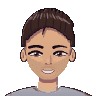
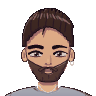
feat(portraits): likeness pass on the dialogue portraits
Features re-chosen by eye per person (skin, hair style and colour, brows, beards, glasses, earrings, accessories). New hair style tousle, side parts, ombre ends, aviator glasses and other optional FACES keys. Nothing is traced or sampled from a photo.

Changed region(s): [[0.1875, 0.125, 0.8125, 0.9688], [0.625, 0.0938, 0.6562, 0.125]]

diff --git a/scripts/art/portraits.py b/scripts/art/portraits.py
@@ -24,65 +24,67 @@ SKIN = {"light": (250, 220, 196), "medium": (238, 198, 164), "tan": (226, 176, 1
 HAIR = {
     "black": (44, 34, 48), "darkbrown": (64, 42, 34), "brown": (96, 62, 42), "chestnut": (146, 96, 60),
     "auburn": (170, 72, 58), "greybrown": (132, 122, 112), "copper": (200, 108, 56), "lightbrown": (140, 100, 66),
-    "ash": (156, 146, 136), "salt": (104, 98, 98),
+    "ash": (156, 146, 136), "salt": (104, 98, 98), "mahogany": (92, 40, 42), "wavybrown": (84, 52, 38),
+    "inkbrown": (52, 40, 40), "pinbrown": (122, 104, 90), "silverbrown": (148, 132, 120), "ginger": (208, 118, 62),
 }
-EYES = {"brown": (92, 56, 36), "darkbrown": (60, 38, 30), "hazel": (120, 96, 52), "green": (84, 118, 70)}
+EYES = {"brown": (92, 56, 36), "darkbrown": (60, 38, 30), "hazel": (120, 96, 52), "green": (84, 118, 70),
+        "hazelgreen": (112, 116, 66)}
 
 # Per-person features. fw = half face width, chin = chin y, cw = chin half width, brow = stroke width,
 # eye = (width, height), mouth = grin | smile | soft | neutral, squint = smiling lower lids.
 FACES = {
-    "ric": dict(skin="tan", hair="darkbrown", eyes="darkbrown", style="bun", fw=19.5, chin=74, cw=3.5, brow=2.2,
-                eye=(10, 5.2), mouth="soft", beard="full", acc=["sunglasses"], male=True,
+    "ric": dict(skin="tan", hair="darkbrown", eyes="darkbrown", style="bun", fw=18.8, chin=75, cw=3.5, brow=2.4,
+                eye=(10, 5.2), mouth="soft", beard="full", acc=["sunglasses"], male=True, messy=True,
                 top=("shirt", (128, 36, 52), "hawaii")),
-    "lara": dict(skin="light", hair="chestnut", eyes="brown", style="longwavy", fw=19.5, chin=71, cw=3.0, brow=1.3,
-                 eye=(10, 6.6), mouth="grin", squint=True, blush=True, acc=["necklace"],
-                 top=("straps", (246, 243, 236), "buttons")),
-    "liscio": dict(skin="tan", hair="darkbrown", eyes="brown", style="swept", fw=20, chin=73, cw=3.5, brow=1.9,
-                   eye=(10, 5.4), mouth="grin", squint=True, beard="stubble", acc=["chain"], male=True,
+    "lara": dict(skin="tan", hair="wavybrown", eyes="darkbrown", style="longwavy", fw=19.5, chin=72, cw=3.0, brow=2.6,
+                 eye=(10, 6.0), mouth="smile", lip=(196, 110, 108), acc=["beadearrings", "mole"],
+                 ombre=(178, 118, 72), top=("straps", (246, 243, 236), "buttons")),
+    "liscio": dict(skin="tan", hair="darkbrown", eyes="brown", style="swept", fw=19.2, chin=75, cw=3.5, brow=2.5,
+                   eye=(10, 5.0), mouth="smile", beard="short", acc=["chain", "hoop"], male=True,
                    top=("tee", (168, 172, 180), None)),
-    "ros": dict(skin="light", hair="auburn", eyes="hazel", style="bob", fw=19.5, chin=71, cw=3.0, brow=1.3,
-                eye=(10.5, 6.8), mouth="neutral", blush=True, acc=["earrings"],
+    "ros": dict(skin="light", hair="auburn", eyes="hazel", style="bob", fw=19.5, chin=71, cw=3.0, brow=1.5,
+                eye=(10.5, 6.8), mouth="soft", blush=True, acc=["bighoops", "goldchain"],
                 top=("straps", (52, 44, 56), "ditsy")),
-    "lollino": dict(skin="tan", hair="brown", eyes="brown", style="curls", fw=20.5, chin=73, cw=4.0, brow=2.0,
-                    eye=(10, 5.4), mouth="grin", squint=True, beard="short", acc=["shades-on-head"], male=True,
-                    top=("tee", (40, 48, 82), None)),
+    "lollino": dict(skin="medium", hair="darkbrown", eyes="hazelgreen", style="tousle", fw=19.8, chin=74, cw=4.0,
+                    brow=2.5, eye=(10, 5.6), mouth="grin", squint=True, beard="short", acc=["shades-on-head"],
+                    male=True, vol=1.15, fringe=True, top=("tee", (40, 48, 82), None)),
     "fede": dict(skin="medium", hair="darkbrown", eyes="darkbrown", style="longstraight", fw=19.5, chin=71, cw=3.0,
                  brow=1.4, eye=(10, 6.4), mouth="grin", squint=True, blush=True, acc=[],
                  top=("straps", (226, 196, 70), "ditsy-light")),
-    "giuggiu": dict(skin="medium", hair="black", eyes="darkbrown", style="quiff", fw=21, chin=74, cw=5.0, brow=2.1,
-                    eye=(9.5, 5.2), mouth="smile", beard="short", acc=[], male=True,
+    "giuggiu": dict(skin="tan", hair="black", eyes="darkbrown", style="tousle", fw=20.5, chin=75, cw=5.0, brow=2.6,
+                    eye=(9.5, 5.4), mouth="smile", beard="short", acc=[], male=True, vol=0.6, bumps=True, drop=8,
                     top=("tee", (244, 244, 240), "logo")),
-    "giusy": dict(skin="olive", hair="black", eyes="darkbrown", style="longblack", fw=19, chin=71, cw=2.6, brow=1.6,
-                  eye=(10.5, 6.6), mouth="soft", acc=["earrings"], lashes=True,
+    "giusy": dict(skin="tan", hair="mahogany", eyes="darkbrown", style="longstraight", fw=19, chin=71, cw=2.6, brow=1.6,
+                  eye=(10.5, 6.4), mouth="grin", squint=True, acc=["chain"], lashes=True, part=41,
                   top=("vneck", (40, 30, 44), "floral")),
-    "pinolo": dict(skin="light", hair="greybrown", eyes="brown", style="sidepart", fw=20.5, chin=74, cw=4.5, brow=1.8,
-                   eye=(9, 5.0), mouth="smile", acc=["glasses", "lines"], male=True,
-                   top=("collar", (176, 204, 232), "stripes")),
+    "pinolo": dict(skin="light", hair="pinbrown", eyes="brown", style="sidepart", fw=21.5, chin=74, cw=5.0, brow=2.0,
+                   eye=(9, 5.0), mouth="smile", acc=["glasses", "lines"], male=True, gframe=(38, 30, 32), gthick=1.6,
+                   browcol=(86, 66, 56), top=("collar", (176, 204, 232), "stripes")),
     "sconosciuta": dict(skin="light", hair="chestnut", eyes="green", style="ponytail", fw=19, chin=71, cw=3.0,
                         brow=1.3, eye=(10.5, 6.8), mouth="smile", blush=True, acc=[],
                         top=("straps", (150, 214, 184), None)),
     # extras (comparse), traits from the photos the owner added
-    "alessandro": dict(skin="light", hair="black", eyes="darkbrown", style="swept", fw=19.5, chin=74, cw=3.5, brow=1.9,
-                       eye=(10, 5.4), mouth="grin", squint=True, beard="stubble", acc=[], male=True,
-                       top=("collar", (244, 242, 236), None)),
-    "rosanna": dict(skin="light", hair="black", eyes="darkbrown", style="longstraight", fw=19.5, chin=72, cw=3.5,
-                    brow=1.5, eye=(10, 6.0), mouth="neutral", acc=["sunglasses", "buckethat"],
+    "alessandro": dict(skin="light", hair="black", eyes="darkbrown", style="tousle", fw=18.8, chin=75, cw=3.5, brow=1.7,
+                       eye=(10, 5.4), mouth="grin", squint=True, beard="stubble", acc=[], male=True, vol=0.75,
+                       drop=11, top=("collar", (244, 242, 236), None)),
+    "rosanna": dict(skin="light", hair="darkbrown", eyes="darkbrown", style="longstraight", fw=19.5, chin=73, cw=3.5,
+                    brow=1.6, eye=(10, 6.0), mouth="neutral", acc=["aviator", "buckethat"],
                     top=("tee", (40, 36, 40), "vest")),
-    "roberto": dict(skin="light", hair="lightbrown", eyes="brown", style="swept", fw=19.5, chin=73, cw=3.5, brow=1.7,
-                    eye=(10, 5.0), mouth="smile", squint=True, beard="short", acc=["tophat", "bowtie"], male=True,
-                    top=("blazer", (30, 28, 34), (240, 236, 226))),
-    "armando": dict(skin="light", hair="darkbrown", eyes="darkbrown", style="swept", fw=19.5, chin=74, cw=3.0,
-                    brow=2.2, eye=(10, 5.2), mouth="neutral", beard="goatee", acc=[], male=True,
-                    top=("tee", (150, 118, 40), "plaid")),
-    "carolina": dict(skin="light", hair="copper", eyes="brown", style="longstraight", fw=19.5, chin=72, cw=3.5,
-                     brow=1.4, eye=(10, 6.2), mouth="smile", lip=(176, 28, 40), squint=True, acc=["nosering"],
-                     top=("vneck", (34, 32, 36), None)),
-    "papa": dict(skin="tan", hair="salt", eyes="darkbrown", style="quiff", fw=20, chin=74, cw=4.0, brow=2.0,
-                 eye=(9.5, 4.8), mouth="smile", squint=True, beard="full", acc=["lines"], male=True,
-                 top=("blazer", (70, 76, 92), (36, 44, 80))),
-    "mamma": dict(skin="light", hair="ash", eyes="brown", style="longwavy", fw=19.5, chin=72, cw=3.5, brow=1.4,
-                  eye=(10, 5.8), mouth="grin", squint=True, acc=["rectglasses", "headband", "lines"],
-                  top=("blazer", (104, 62, 40), (236, 228, 212))),
+    "roberto": dict(skin="light", hair="brown", eyes="hazel", style="swept", fw=18.8, chin=75, cw=3.5, brow=1.7,
+                    eye=(10, 5.0), mouth="smile", squint=True, beard="short", acc=["tophat", "bowtie", "sidecurls"],
+                    male=True, top=("blazer", (30, 28, 34), (240, 236, 226))),
+    "armando": dict(skin="light", hair="darkbrown", eyes="darkbrown", style="tousle", fw=18.8, chin=75, cw=3.0,
+                    brow=2.5, eye=(10, 5.0), mouth="neutral", beard="goatee", acc=[], male=True, vol=1.3,
+                    drop=12, top=("tee", (150, 118, 40), "plaid")),
+    "carolina": dict(skin="light", hair="ginger", eyes="brown", style="longwavy", fw=19.5, chin=72, cw=3.5,
+                     brow=1.5, eye=(10, 6.2), mouth="smile", lip=(150, 20, 38), squint=True, acc=["nosering"],
+                     part=53, browcol=(132, 76, 44), top=("vneck", (34, 32, 36), None)),
+    "papa": dict(skin="tan", hair="inkbrown", eyes="darkbrown", style="quiff", fw=20, chin=74, cw=4.0, brow=2.7,
+                 eye=(9.5, 4.8), mouth="smile", squint=True, beard="full", acc=["lines", "browlines"], male=True,
+                 bcol=(112, 104, 104), top=("blazer", (70, 76, 92), (36, 44, 80))),
+    "mamma": dict(skin="light", hair="silverbrown", eyes="brown", style="longwavy", fw=19.5, chin=72, cw=3.5, brow=1.5,
+                  eye=(10, 5.8), mouth="grin", squint=True, acc=["rectglasses", "headband", "lines", "browlines"],
+                  browcol=(96, 72, 62), top=("blazer", (104, 62, 40), (236, 228, 212))),
 }
 
 
@@ -379,7 +381,7 @@ def eye(cv, f, cx, side, skin):
 
 def brow(cv, f, cx, side):
     hc = HAIR[f["hair"]]
-    col = ink(hc) if f["hair"] != "greybrown" else shade(hc, 1.4)
+    col = f.get("browcol") or (ink(hc) if f["hair"] != "greybrown" else shade(hc, 1.4))
     cy = 52 - f["eye"][1] / 2 - 3.4
     inner, outer = cx - side * 5.2, cx + side * 5.6
     pts = bez((inner, cy + 0.6), (cx - side * 0.5, cy - 1.4), (outer, cy + 0.6))
@@ -441,7 +443,7 @@ def beard(cv, f, face, skin, rng):
         cv.fill(stroke(bez((42.5, my - 2.6), (48, my - 3.8), (53.5, my - 2.6)), 1.2, "both"), mix(skin, grey, 0.26))
         return
     if kind == "goatee":  # a moustache and a pointed tuft on the chin
-        col = mix(HAIR[f["hair"]], (96, 70, 56), 0.2)
+        col = f.get("bcol") or mix(HAIR[f["hair"]], (96, 70, 56), 0.2)
         tuft = (face & ell(48, f["chin"] - 2.2, 4.6, 4.4) & (Y > my + 2.2)) | stroke(bez((46, my + 3), (48, f["chin"] + 1.2), (50, my + 3)), 2.0)
         cv.cel(tuft, col, sd=(0.6, 0.8), hi=None, lw=2)
         must = stroke(bez((42, my - 0.4), (45, my - 3.2), (48, my - 2.6)), 1.8, "end") | stroke(bez((54, my - 0.4), (51, my - 3.2), (48, my - 2.6)), 1.8, "end")
@@ -452,7 +454,7 @@ def beard(cv, f, face, skin, rng):
     top = np.array([[0.0]]) + np.vectorize(lambda x: top_at(x, rx, full))(X[0])[None, :]
     hole = ell(48, my + 1.0, 3.0, 1.2) if f["mouth"] != "grin" else ell(48, my + 1.8, 7.2, 4.4)
     m = ((face | grow) & (Y > top)) & ~hole
-    col = mix(hc, (96, 70, 56), 0.25) if full else mix(mix(hc, (96, 70, 56), 0.3), skin, 0.12)
+    col = f.get("bcol") or (mix(hc, (96, 70, 56), 0.25) if full else mix(mix(hc, (96, 70, 56), 0.3), skin, 0.12))
     cv.cel(m, col, sd=(1.6, 1.6), hi=(-0.8, -1.0), lw=3, grad=(52, f["chin"] + 6, 0.5))
     # cheek edge fades into the skin, then a few hair strokes for texture
     edge = m & ~sh(m, 0, -1.2) & ~erode(m, 6)
@@ -499,6 +501,12 @@ def shine(cv, m, col, y0):
         cv.fill(stroke(pts, 0.9, "both") & inner, light(col, 0.9 if k % 2 == 0 else 0.55))
 
 
+def ombre(cv, m, col, y0):
+    """Sun-bleached ends: blend the lower hair towards col."""
+    t = (np.clip((Y - y0) / 30, 0, 1) * 0.8)[m][:, None]
+    cv.rgb[m] = cv.rgb[m] * (1 - t) + np.array(col) * t
+
+
 def locks(roots, tip, ctrl, w):
     """Union of tapered locks from each root towards tip(root) through ctrl(root)."""
     m = np.zeros((N, N), bool)
@@ -531,6 +539,10 @@ def hair(f, rng):
         for x0 in (33, 41, 55, 63):
             paths.append(bez((x0, 33 + abs(x0 - 48) * 0.25), ((x0 + 50) / 2, 26), (50, 20)))
         paths += [bez((45, 16), (51, 11), (57, 15))]
+        if f.get("messy"):  # loose tufts round the knot and a few wisps at the temples
+            for cx, cy, r in ((41.5, 13.5, 2.6), (60.5, 12.5, 2.4), (58.5, 18.5, 2.2), (43, 19.5, 2.0)):
+                front |= ell(cx, cy, r, r * 0.85)
+            front |= stroke(bez((32, 33), (29.5, 40), (31.5, 50)), 1.4, "end") | stroke(bez((63, 33), (66, 40), (64.5, 50)), 1.4, "end")
         front |= stroke(bez((31, 31), (28.5, 38), (30, 46)), 1.3, "end") | stroke(bez((64, 30), (68, 36), (67, 44)), 1.2, "end")
     elif st == "swept":
         c = ell(48, 42, fw + 2.5, 26)
@@ -567,6 +579,27 @@ def hair(f, rng):
         front |= c & (np.abs(X - 48) > fw - 2.0) & (Y < 50)
         for x0 in (38, 44, 50, 56):
             paths.append(bez((x0, 32), (x0 - 1, 24), (x0 + 4, 18)))
+    elif st == "tousle":  # a tousled mass swept up and back; vol = height, drop = how far the temples come down
+        vol = f.get("vol", 1.0)
+        top = 15.0 - 5.0 * vol
+        c = ell(48, 42, fw + 3.0, 42 - top)
+        hl = 29.5 + 2.5 * np.cos((X - 48) * 0.5) + f.get("drop", 12) * np.clip(np.abs(X - 48) / fw, 0, 1) ** 2.0
+        front = c & hairline(hl)
+        front |= c & (np.abs(X - 48) > fw - 1.8) & (Y < 46)
+        if f.get("bumps"):  # short curls along the crown
+            for x0 in np.arange(33, 64, 4.2):
+                yy = 42 - (42 - top) * math.sqrt(max(0.0, 1 - ((x0 - 48) / (fw + 3.0)) ** 2))
+                front |= ell(x0 + rng.uniform(-0.6, 0.6), yy + 2.0, 3.4, 3.0)
+        else:  # wavy lobes, uneven in height, so the crown reads as loose hair and not as spikes
+            for x0 in np.arange(31, 66, 5.0):
+                yy = 42 - (42 - top) * math.sqrt(max(0.0, 1 - ((x0 - 48) / (fw + 3.0)) ** 2))
+                front |= ell(x0 + rng.uniform(-0.8, 0.8), yy + rng.uniform(0.6, 2.4), rng.uniform(4.4, 5.6), rng.uniform(3.6, 4.8))
+        if f.get("fringe"):
+            front |= stroke(bez((50, 19), (40, 24), (35.5, 36)), 4.2, "end")
+        front |= stroke(bez((30.5, 33), (27.5, 40), (29.5, 47)), 2.2, "end") | \
+            stroke(bez((65.5, 33), (68.5, 40), (66.5, 47)), 2.2, "end")
+        for x0 in (34, 40, 46, 52, 58, 62):
+            paths.append(bez((x0, 30 + abs(x0 - 48) * 0.2), (x0 + (x0 - 48) * 0.1, 22), (x0 + 3, top + 4)))
     elif st == "sidepart":
         c = cap(fw, 20.5, 0.8)
         # the fringe sweeps from the part down towards the right temple, the left temple recedes a little
@@ -586,7 +619,7 @@ def hair(f, rng):
             paths.append(bez((38, y0), (33, y0 + 2), (29, y0 + 10)))
     elif st in ("longwavy", "longblack"):
         big = st == "longblack"
-        px = 44 if not big else 53
+        px = f.get("part", 44 if not big else 53)
         sp = 8.5 if big else 6
         wave = 1.4 if big else 1.1
         ys = np.linspace(44, 97, 30)
@@ -607,8 +640,9 @@ def hair(f, rng):
             paths.append(bez((px, 18), ((px + tx) / 2, 20), (tx, 31 + abs(tx - 48) * 0.1)))
     elif st == "longstraight":
         back = poly([(48 - fw - 5, 44), (48 - fw - 6.5, 97), (48 + fw + 6.5, 97), (48 + fw + 5, 44)]) | ell(48, 42, fw + 5, 27)
+        px = f.get("part", 48)
         c = cap(fw, 17, 3.0)
-        front = c & hairline(26.5 + 1.7 * np.abs(X - 48) ** 0.7)
+        front = c & hairline(26.5 + 1.7 * np.abs(X - px) ** 0.7)
         front |= curtain(-1, fw, 30, 96, 4.5, 0.0, inner=2.2, spread=0.12)
         front |= curtain(1, fw, 30, 96, 4.5, 0.0, inner=2.2, spread=0.12)
         front |= c & (np.abs(X - 48) > fw - 3) & (Y < 50)
@@ -617,8 +651,8 @@ def hair(f, rng):
                 x0 = 48 + s * (fw + 0.8 + k * 1.8)
                 paths.append([(x0 - s * 0.8, 36), (x0, 62), (x0 + s * 0.6, 96)])
             for k in range(3):
-                paths.append(bez((48, 19), (48 + s * (8 + k * 2), 21), (48 + s * (18 + k * 0.5), 31 + k)))
-        extras.append(("part", stroke([(48, 17.5), (48, 23)], 0.6)))
+                paths.append(bez((px, 19), (px + s * (8 + k * 2), 21), (48 + s * (18 + k * 0.5), 31 + k)))
+        extras.append(("part", stroke([(px, 17.5), (px, 23)], 0.6)))
     elif st == "bob":
         back = ell(48, 47, fw + 6.5, 26) & (Y < 71)
         c = cap(fw, 16, 4.0)
@@ -652,15 +686,26 @@ def hair(f, rng):
 
 def glasses(cv, f, which):
     if which == "glasses":
-        frame = (70, 44, 34)
+        frame = f.get("gframe", (70, 44, 34))
+        t = f.get("gthick", 1.1)
         for cx in (38, 58):
-            ring = ell(cx, 52, 6.4, 5.6) & ~ell(cx, 52, 5.3, 4.5)
-            cv.fill(ell(cx, 52, 5.3, 4.5), (220, 232, 240), 0.18)
+            ring = ell(cx, 52, 6.4, 5.6) & ~ell(cx, 52, 6.4 - t, 5.6 - t * 0.8)
+            cv.fill(ell(cx, 52, 6.4 - t, 5.6 - t * 0.8), (220, 232, 240), 0.18)
             cv.fill(ring, frame)
-            cv.fill(ring & (Y < 49) & (X < cx), (150, 104, 80))
+            cv.fill(ring & (Y < 49) & (X < cx), light(frame, 0.5) if "gframe" in f else (150, 104, 80))
         cv.fill(stroke(bez((43.6, 51), (48, 49.5), (52.4, 51)), 0.9), frame)
         cv.fill(stroke([(31.6, 51), (48 - f["fw"] + 0.5, 50)], 0.9) | stroke([(64.4, 51), (48 + f["fw"] - 0.5, 50)], 0.9),
                 frame)
+    elif which == "aviator":  # teardrop lenses, thin gold frame and double bridge
+        gold = (206, 176, 96)
+        for cx in (38.5, 57.5):
+            narrow = 7.6 * (1 - 0.3 * np.clip((Y - 48) / 11, 0, 1))
+            lens = ell(cx, 52.0, 7.6, 6.6) & (np.abs(X - cx) < narrow) & (Y > 46.4)
+            cv.vgrad(lens, (34, 38, 38), (92, 96, 94), 46, 59)
+            cv.fill(lens & (np.abs((X - cx) + (Y - 51) * 1.1 + 2.5) < 0.9), (170, 176, 170))
+            cv.fill(lens & ~erode(lens, 2), gold)
+        cv.fill(stroke(bez((45.6, 49.2), (48, 47.6), (50.4, 49.2)), 0.7) | stroke([(45.8, 51.6), (50.2, 51.6)], 0.6), gold)
+        cv.fill(stroke([(31, 49.5), (48 - f["fw"] + 0.5, 49.5)], 0.7) | stroke([(65, 49.5), (48 + f["fw"] - 0.5, 49.5)], 0.7), gold)
     elif which == "sunglasses":
         frame = (24, 20, 28)
         for cx in (38.5, 57.5):
@@ -740,6 +785,8 @@ def draw(pid):
     if back is not None:
         cv.cel(back, shade(hc, 0.55), sd=(2, 1.5), hi=None, lw=3, grad=(30, 96, 0.6))
         strands(cv, back, shade(hc, 0.55), paths[: len(paths) // 2], 0.6)
+        if f.get("ombre"):
+            ombre(cv, back, shade(f["ombre"], 0.5), 58)
     neck, shoulders, clothes = torso(cv, f, rng, skin)
     if "necklace" in f["acc"]:
         cv.fill(stroke(bez((41, 76), (48, 87), (55, 76)), 0.55) & ~clothes, (214, 178, 90))
@@ -747,6 +794,10 @@ def draw(pid):
     if "chain" in f["acc"]:
         cv.fill(stroke(bez((40.5, 78), (48, 90), (55.5, 78)), 0.65), (196, 198, 206))
         cv.fill(ell(48, 90.6, 1.2, 1.6), (220, 222, 230))
+    if "goldchain" in f["acc"]:  # two gold chains, the short one with a small pendant
+        cv.fill(stroke(bez((40, 76), (48, 85), (56, 76)), 0.7), (222, 184, 96))
+        cv.fill(stroke(bez((42, 78), (48, 92), (54, 78)), 0.55), (236, 204, 120))
+        cv.fill(ell(48, 92.0, 0.9, 1.3), (236, 206, 120))
     cv.cel(ears, skin, sd=(0.8, 0.8), hi=None, lw=3)
     cv.fill(stroke([(48 - f["fw"] - 0.8, 51), (48 - f["fw"] - 0.6, 55)], 0.9) |
             stroke([(48 + f["fw"] + 0.8, 51), (48 + f["fw"] + 0.6, 55)], 0.9), shade(skin, 1.0))
@@ -760,10 +811,15 @@ def draw(pid):
         for cx in (35.5, 60.5):
             cv.fill(ell(cx, 59, 3.4, 1.7), (240, 140, 140), 0.28)
     for cx, side in ((38, -1), (58, 1)):
-        if "sunglasses" not in f["acc"]:
+        if "sunglasses" not in f["acc"] and "aviator" not in f["acc"]:
             eye(cv, f, cx, side, skin)
         brow(cv, f, cx, side)
     nose(cv, skin)
+    if "mole" in f["acc"]:
+        cv.fill(ell(60.5, 60.5, 0.75, 0.75), (112, 70, 54))
+    if "browlines" in f["acc"]:
+        for y0 in (38.5, 41.5):
+            cv.fill(stroke(bez((38, y0), (48, y0 - 1.0), (58, y0)), 0.5, "both"), shade(skin, 0.5))
     if "lines" in f["acc"]:
         for s in (-1, 1):
             cv.fill(stroke(bez((48 + s * 4.2, 60), (48 + s * 6.4, 63), (48 + s * 6.0, 66)), 0.6, "both"), shade(skin, 0.8))
@@ -788,13 +844,15 @@ def draw(pid):
         strands(cv, front, hc, paths)
         top = np.nonzero(front[:, 44 * SS:52 * SS].any(axis=1))[0]
         shine(cv, front, hc, (top[0] / SS if len(top) else 18) + 6.5)
+        if f.get("ombre"):
+            ombre(cv, front, f["ombre"], 56)
         cv.fill(front & ~erode(front, 3), ink(hc))
     for name, m in extras:
         if name == "part":
             cv.fill(m, shade(skin, 0.3))
         elif name == "tie":
             cv.cel(m, (220, 110, 140), sd=(0.6, 0.6), hi=None, lw=2)
-    for which in ("glasses", "sunglasses", "shades-on-head"):
+    for which in ("glasses", "aviator", "sunglasses", "shades-on-head"):
         if which in f["acc"]:
             glasses(cv, f, which)
     wearables(cv, f)
@@ -804,6 +862,26 @@ def draw(pid):
 def wearables(cv, f):
     """Hats, bow tie, headband, rectangular glasses and a nose ring for the extras."""
     acc, fw = f["acc"], f["fw"]
+    if "sidecurls" in acc:  # curls that stick out from under the hat at ear level
+        hc = HAIR[f["hair"]]
+        for s in (-1, 1):
+            for cy, r, dx in ((34.5, 2.8, 0.6), (39.5, 2.6, 1.6)):
+                cv.cel(ell(48 + s * (fw + dx), cy, r, r), hc, sd=(1.0, 1.0), hi=(-0.8, -0.8), lw=2)
+    if "bighoops" in acc:  # chunky gold hoops, a small one above each
+        for s in (-1, 1):
+            x0 = 48 + s * (fw + 0.4)
+            cv.fill(ell(x0, 61.5, 3.0, 3.6) & ~ell(x0, 61.5, 2.0, 2.6), (230, 190, 92))
+            cv.fill(ell(x0 + s * 0.3, 56.5, 1.5, 1.8) & ~ell(x0 + s * 0.3, 56.5, 0.8, 1.1), (230, 190, 92))
+    if "beadearrings" in acc:  # long beaded fringe: blue, white, orange and black bands
+        bands = [(52, 96, 150), (240, 240, 236), (232, 140, 48), (36, 32, 40), (240, 240, 236), (52, 96, 150)]
+        for s in (-1, 1):
+            x0 = 48 + s * (fw + 1.0)
+            for k, col in enumerate(bands):
+                cv.fill(poly([(x0 - 1.1, 58 + k * 2.3), (x0 + 1.1, 58 + k * 2.3), (x0 + 0.7, 60.2 + k * 2.3),
+                              (x0 - 0.7, 60.2 + k * 2.3)]), col)
+    if "hoop" in acc:  # a small silver hoop on the right ear
+        x0 = 48 + fw + 0.8
+        cv.fill(ell(x0, 59.5, 1.6, 2.0) & ~ell(x0, 59.5, 0.9, 1.3), (214, 216, 224))
     if "rectglasses" in acc:
         frame = (60, 36, 34)
         for cx in (38, 58):

diff --git a/docs/art-characters.md b/docs/art-characters.md
@@ -56,10 +56,14 @@ Only these choices came from looking at the group photo, the professor photo and
 - Giusy: long dark wavy hair, tan skin, dark floral dress.
 - Prof. Pinolo: short grey-brown hair, round dark glasses, light blue striped shirt with an open collar and no tie.
 
-The painted portraits add, from the same photos: Ric's long face, thick brows, full dark beard with moustache and loose strands by the temples; Lara's side-parted wavy hair and wide smile; Liscio's swept-back hair, stubble, chain with a pendant and wide smile; Ros's straight blunt bangs, chin-length bob, serious mouth and earrings; Lollino's voluminous curls, short beard and smile; Fede's centre-parted straight hair and wide smile; Giuggiu's short hair with a raised front, short full beard and logo tee; Giusy's side-parted wavy black hair, calm mouth and earrings; Prof. Pinolo's side-swept fringe, faint smile lines and open striped collar. The portraits use their own colours, so a skin or hair tone there can be closer to the photo than the shared sprite palette allows.
+The painted portraits add, from the same photos (round 3 likeness pass, features chosen by eye, nothing traced): Ric's long narrow face, thick brows, full dark beard with moustache, and a messy bun with loose tufts and wisps at the temples. Lara's tan olive skin, long dark brown wavy hair with sun-bleached lighter ends, very thick dark brows, a closed half smile, a small mole on the right cheek and long beaded earrings (blue, white, orange, black) hanging over the hair. Liscio's swept-back dark hair, thick straight brows, heavy-lidded eyes, a dense short beard with moustache, a small silver hoop in the right ear, the chain with a pendant and a closed smile. Ros's chin-length copper-red bob with bangs, a softer smirk instead of a flat mouth, big gold hoops with a small one above, and two gold chains. Lollino's lighter skin, dark brown tousled wavy hair swept up with a lock falling on the forehead (in place of the old tight curls), hazel-green eyes, thick arched brows, short beard, a wide smile and the sunglasses pushed up on the hair. Fede's centre-parted straight hair and wide smile (no photo, unchanged). Giuggiu's tan skin, short dark curly hair that is higher at the temples, thick brows, short full beard and a closed smile, with the logo tee. Giusy's lighter tan skin, long straight dark mahogany hair with a side part, a wide smile with teeth and a thin silver pendant chain (no earrings). Prof. Pinolo's brown-grey side-swept fringe, a broad face, thick black round glasses, faint smile lines and the open striped collar. The portraits use their own colours, so a skin or hair tone there can be closer to the photo than the shared sprite palette allows.
 - Gatto di Paz: calico coat (white, orange and brown tabby patches), as in the cat photo.
 - La sconosciuta: no photo, invented.
 
 Skin tones were matched only to the nearest of the three shared tones. A photo-based portrait variant needs each friend's consent and is out of scope here.
 
 Extras (comparse) added from the photos in `reference_photos/personaggi/comparse/` (viewed only): Alessandro, the waiter (white shirt, swept black hair, stubble, wide smile), barista of the Cortile Cafe; Rosanna (long black hair, tie-dye bucket hat, aviators, black tee under a brown fleece vest), at the Giardini; Ric's parents (dad: salt-and-pepper beard, dark hair, blazer over a navy shirt; mum: long ash-grey wavy hair, red headband, rectangular glasses, brown jacket), at Casa Circe; Roberto (top hat, red bow tie, light-brown hair, short beard), Armando (messy dark hair, goatee, flannel shirt over a black hoodie) and Carolina (copper hair, red lips, nose ring, black top) have a sprite and a portrait but no scene yet.
+
+Portrait traits of the extras after the round 3 likeness pass (chosen by looking only): Alessandro has a longer narrow face, short dark hair brushed up and back with a little lift at the front, light stubble, thin straight brows, a wide smile and the open white collar. Rosanna has very long dark brown hair, the tie-dye bucket hat with its red chin cord, teardrop aviator sunglasses with a thin gold frame (a new accessory, `aviator`), a neutral mouth and the brown fleece vest. Roberto has a long narrow face, hazel eyes, a short scruffy beard, a warm one-sided smile, a few dark curls sticking out under the top hat at ear level and the red bow tie. Armando has a pale narrow face, a big messy dark brown quiff swept up and back, heavy straight brows, a thin moustache with a goatee and a neutral mouth. Carolina has long loosely wavy ginger hair with a side part, thin copper brows, dark red lips, a smile and the nose ring. Dad has short dark near-black textured hair, strong brows, forehead and smile lines (a new accessory, `browlines`) and a trimmed salt-and-pepper beard (the beard colour is its own, `bcol`). Mum has long silver-brown wavy hair, a thin red headband, rectangular dark glasses, forehead and smile lines and a warm grin.
+
+New `FACES` keys of this pass, all optional: `style="tousle"` with `vol`, `drop`, `bumps` and `fringe`; `part` (x of the parting for `longstraight` and `longwavy`); `ombre` (colour of lighter hair ends); `bcol` (beard colour); `browcol` (brow colour); `gframe` and `gthick` (round glasses frame colour and thickness); `messy` (loose tufts on the bun); accessories `aviator`, `mole`, `browlines`, `hoop`, `bighoops`, `beadearrings`, `goldchain` and `sidecurls`.
